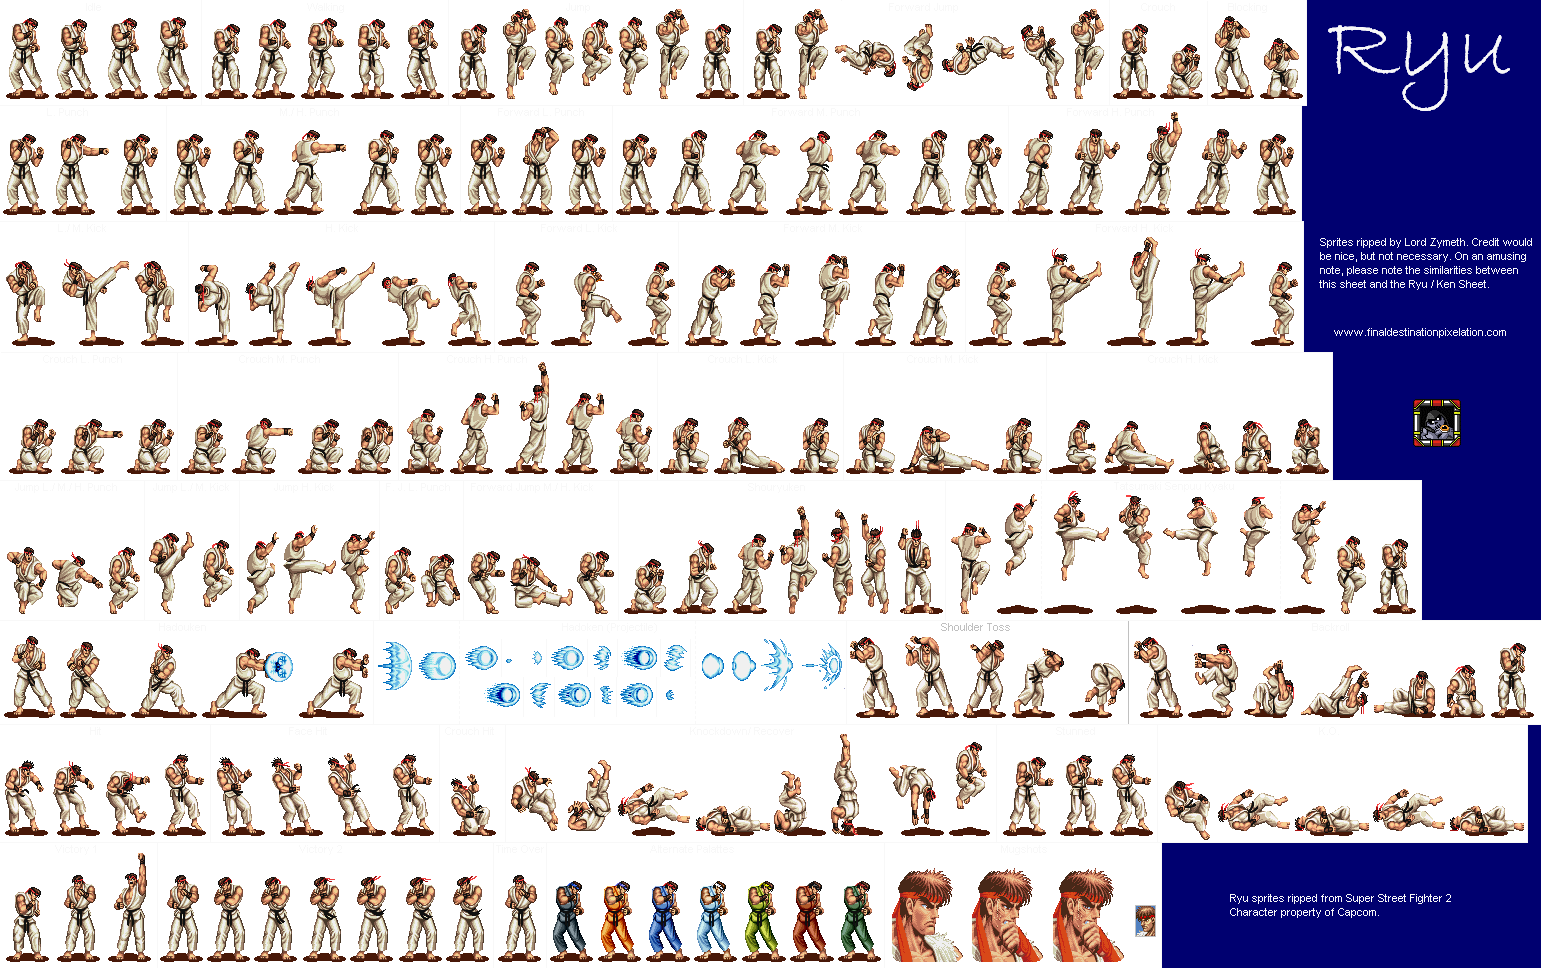
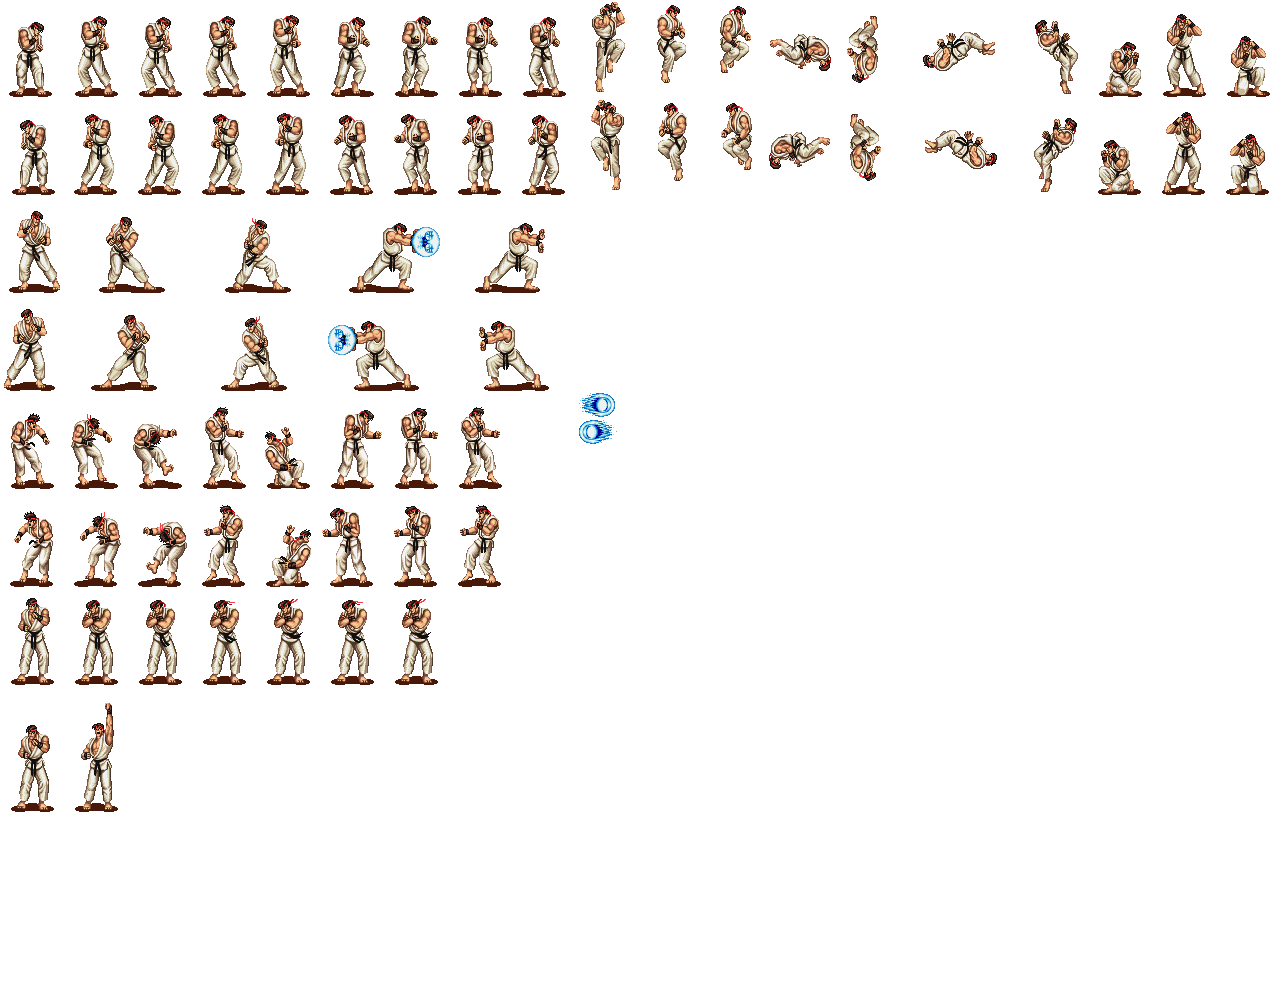
New gfx for Ryu

diff --git a/js/sprites.js b/js/sprites.js
@@ -120,32 +120,31 @@ FvB.Sprites = (function () {
         { sprite: "SPR_HUGE_EXPLOSION_11", sheet: "EXPLODEY.PNG", xOffset: 440, yOffset: 0, width: 40, height: 40, hitBox: null },
         { sprite: "SPR_HUGE_EXPLOSION_12", sheet: "EXPLODEY.PNG", xOffset: 480, yOffset: 0, width: 40, height: 40, hitBox: null },
         // Ryu Idle
-        { sprite: "SPR_RYU_IDLE_1", sheet: "RYU.PNG", xOffset: 5, yOffset: 17, width: 46, height: 82, hitBox: { x1: -5, x2: 5, y1: -64, y2: 0 } },
-        { sprite: "SPR_RYU_IDLE_2", sheet: "RYU.PNG", xOffset: 54, yOffset: 17, width: 46, height: 82, hitBox: { x1: -5, x2: 5, y1: -64, y2: 0 } },
-        { sprite: "SPR_RYU_IDLE_3", sheet: "RYU.PNG", xOffset: 104, yOffset: 17, width: 46, height: 82, hitBox: { x1: -5, x2: 5, y1: -64, y2: 0 } },
-        { sprite: "SPR_RYU_IDLE_4", sheet: "RYU.PNG", xOffset: 153, yOffset: 17, width: 46, height: 82, hitBox: { x1: -5, x2: 5, y1: -64, y2: 0 } },
+        { sprite: "SPR_RYU_IDLE_1", sheet: "RYU.PNG", xOffset: 64, yOffset: 0, width: 64, height: 98, hitBox: { x1: -5, x2: 5, y1: -64, y2: 0 } },
+        { sprite: "SPR_RYU_IDLE_2", sheet: "RYU.PNG", xOffset: 128, yOffset: 0, width: 64, height: 98, hitBox: { x1: -5, x2: 5, y1: -64, y2: 0 } },
+        { sprite: "SPR_RYU_IDLE_3", sheet: "RYU.PNG", xOffset: 192, yOffset: 0, width: 64, height: 98, hitBox: { x1: -5, x2: 5, y1: -64, y2: 0 } },
+        { sprite: "SPR_RYU_IDLE_4", sheet: "RYU.PNG", xOffset: 256, yOffset: 0, width: 64, height: 98, hitBox: { x1: -5, x2: 5, y1: -64, y2: 0 } },
         // Ryu Walk
-        { sprite: "SPR_RYU_WALK_1", sheet: "RYU.PNG", xOffset: 204, yOffset: 17, width: 46, height: 82, hitBox: null },
-        { sprite: "SPR_RYU_WALK_2", sheet: "RYU.PNG", xOffset: 251, yOffset: 17, width: 46, height: 82, hitBox: null },
-        { sprite: "SPR_RYU_WALK_3", sheet: "RYU.PNG", xOffset: 300, yOffset: 17, width: 46, height: 82, hitBox: null },
-        { sprite: "SPR_RYU_WALK_4", sheet: "RYU.PNG", xOffset: 350, yOffset: 17, width: 46, height: 82, hitBox: null },
-        { sprite: "SPR_RYU_WALK_5", sheet: "RYU.PNG", xOffset: 400, yOffset: 17, width: 46, height: 82, hitBox: null },
+        { sprite: "SPR_RYU_WALK_1", sheet: "RYU.PNG", xOffset: 320, yOffset: 0, width: 64, height: 98, hitBox: null },
+        { sprite: "SPR_RYU_WALK_2", sheet: "RYU.PNG", xOffset: 384, yOffset: 0, width: 64, height: 98, hitBox: null },
+        { sprite: "SPR_RYU_WALK_3", sheet: "RYU.PNG", xOffset: 448, yOffset: 0, width: 64, height: 98, hitBox: null },
+        { sprite: "SPR_RYU_WALK_4", sheet: "RYU.PNG", xOffset: 512, yOffset: 0, width: 64, height: 98, hitBox: null },
         // Ryu Crouch
-        { sprite: "SPR_RYU_CROUCH_1", sheet: "RYU.PNG", xOffset: 1159, yOffset: 17, width: 46, height: 82, hitBox: null },
+        { sprite: "SPR_RYU_CROUCH_1", sheet: "RYU.PNG", xOffset: 1088, yOffset: 0, width: 64, height: 98, hitBox: null },
         // Ryu Jump
-        { sprite: "SPR_RYU_JUMP_1", sheet: "RYU.PNG", xOffset: 537, yOffset: 17, width: 44, height: 82, hitBox: null },
-        { sprite: "SPR_RYU_JUMP_2", sheet: "RYU.PNG", xOffset: 575, yOffset: 17, width: 44, height: 82, hitBox: null },
+        { sprite: "SPR_RYU_JUMP_1", sheet: "RYU.PNG", xOffset: 640, yOffset: 0, width: 64, height: 98, hitBox: null },
+        { sprite: "SPR_RYU_JUMP_2", sheet: "RYU.PNG", xOffset: 704, yOffset: 0, width: 64, height: 98, hitBox: null },
         // Ryu Hadouken
-        { sprite: "SPR_RYU_HADOUKEN_1", sheet: "RYU.PNG", xOffset: 4, yOffset: 636, width: 52, height: 85, hitBox: null },
-        { sprite: "SPR_RYU_HADOUKEN_2", sheet: "RYU.PNG", xOffset: 60, yOffset: 636, width: 66, height: 85, hitBox: null },
-        { sprite: "SPR_RYU_HADOUKEN_3", sheet: "RYU.PNG", xOffset: 131, yOffset: 636, width: 68, height: 85, hitBox: null },
-        { sprite: "SPR_RYU_HADOUKEN_4", sheet: "RYU.PNG", xOffset: 202, yOffset: 636, width: 96, height: 85, hitBox: null },
-        { sprite: "SPR_RYU_HADOUKEN_5", sheet: "RYU.PNG", xOffset: 299, yOffset: 636, width: 72, height: 85, hitBox: null },
+        { sprite: "SPR_RYU_HADOUKEN_1", sheet: "RYU.PNG", xOffset: 0, yOffset: 196, width: 62, height: 98, hitBox: null },
+        { sprite: "SPR_RYU_HADOUKEN_2", sheet: "RYU.PNG", xOffset: 75, yOffset: 196, width: 94, height: 98, hitBox: null },
+        { sprite: "SPR_RYU_HADOUKEN_3", sheet: "RYU.PNG", xOffset: 201, yOffset: 196, width: 94, height: 98, hitBox: null },
+        { sprite: "SPR_RYU_HADOUKEN_4", sheet: "RYU.PNG", xOffset: 310, yOffset: 196, width: 124, height: 98, hitBox: null },
+        { sprite: "SPR_RYU_HADOUKEN_5", sheet: "RYU.PNG", xOffset: 451, yOffset: 196, width: 94, height: 98, hitBox: null },
         // Ryu Damaged
-        { sprite: "SPR_RYU_DAMAGED_1", sheet: "RYU.PNG", xOffset: 4, yOffset: 754, width: 46, height: 82, hitBox: null },
-        { sprite: "SPR_RYU_DAMAGED_2", sheet: "RYU.PNG", xOffset: 54, yOffset: 754, width: 50, height: 82, hitBox: null },
-        { sprite: "SPR_RYU_DAMAGED_3", sheet: "RYU.PNG", xOffset: 107, yOffset: 754, width: 54, height: 82, hitBox: null },
-        { sprite: "SPR_RYU_DAMAGED_4", sheet: "RYU.PNG", xOffset: 162, yOffset: 754, width: 46, height: 82, hitBox: null },
+        { sprite: "SPR_RYU_DAMAGED_1", sheet: "RYU.PNG", xOffset: 0, yOffset: 392, width: 64, height: 98, hitBox: null },
+        { sprite: "SPR_RYU_DAMAGED_2", sheet: "RYU.PNG", xOffset: 64, yOffset: 392, width: 64, height: 98, hitBox: null },
+        { sprite: "SPR_RYU_DAMAGED_3", sheet: "RYU.PNG", xOffset: 128, yOffset: 392, width: 64, height: 98, hitBox: null },
+        { sprite: "SPR_RYU_DAMAGED_4", sheet: "RYU.PNG", xOffset: 192, yOffset: 392, width: 64, height: 98, hitBox: null },
         // Hadouken Projectile
         { sprite: "SPR_HADOUKEN_1", sheet: "RYU.PNG", xOffset: 131, yOffset: 636, width: 68, height: 85, hitBox: null },
         { sprite: "SPR_HADOUKEN_2", sheet: "RYU.PNG", xOffset: 202, yOffset: 636, width: 96, height: 85, hitBox: null },

diff --git a/js/actstate.js b/js/actstate.js
@@ -107,8 +107,8 @@
            [FvB.st_Walk1, 1, FvB.SPR_RYU_WALK_1, 7, FvB.Player.T_Walk, null, FvB.st_Walk2],
         [FvB.st_Walk2, 1, FvB.SPR_RYU_WALK_2, 7, FvB.Player.T_Walk, null, FvB.st_Walk3],
          [FvB.st_Walk3, 1, FvB.SPR_RYU_WALK_3, 7, FvB.Player.T_Walk, null, FvB.st_Walk4],
-         [FvB.st_Walk4, 1, FvB.SPR_RYU_WALK_4, 7, FvB.Player.T_Walk, null, FvB.st_Walk5],
-          [FvB.st_Walk5, 1, FvB.SPR_RYU_WALK_5, 7, FvB.Player.T_Walk, null, FvB.st_Walk1],
+         [FvB.st_Walk4, 1, FvB.SPR_RYU_WALK_4, 7, FvB.Player.T_Walk, null, FvB.st_Walk1],
+         
 
           [FvB.st_Crouch, 1, FvB.SPR_RYU_CROUCH_1, 0, FvB.Player.T_Crouch, null, FvB.st_Idle1],
 
@@ -117,11 +117,11 @@
           [FvB.st_JumpDown, 1, FvB.SPR_RYU_JUMP_2, 5, FvB.Player.T_Jump, null, FvB.st_JumpEnd],
           [FvB.st_JumpEnd, 1, FvB.SPR_RYU_JUMP_1, 0, FvB.Player.T_Jump, null, FvB.st_Idle1],
 
-            [FvB.st_Hadouken1, 1, FvB.SPR_RYU_HADOUKEN_1, 7, null, null, FvB.st_Hadouken2],
-        [FvB.st_Hadouken2, 1, FvB.SPR_RYU_HADOUKEN_2, 7, null, null, FvB.st_Hadouken3],
-         [FvB.st_Hadouken3, 1, FvB.SPR_RYU_HADOUKEN_3, 7, null, null, FvB.st_Hadouken4],
-         [FvB.st_Hadouken4, 1, FvB.SPR_RYU_HADOUKEN_4, 7, null, /*FvB.Entities.A_SpawnHadouken*/, FvB.st_Hadouken5],
-          [FvB.st_Hadouken5, 1, FvB.SPR_RYU_HADOUKEN_5, 7, null, null, FvB.st_Idle1],
+            [FvB.st_Hadouken1, 1, FvB.SPR_RYU_HADOUKEN_1, 77, null, null, FvB.st_Hadouken2],
+        [FvB.st_Hadouken2, 1, FvB.SPR_RYU_HADOUKEN_2, 77, null, null, FvB.st_Hadouken3],
+         [FvB.st_Hadouken3, 1, FvB.SPR_RYU_HADOUKEN_3, 77, null, null, FvB.st_Hadouken4],
+         [FvB.st_Hadouken4, 1, FvB.SPR_RYU_HADOUKEN_4, 77, null, /*FvB.Entities.A_SpawnHadouken*/, FvB.st_Hadouken5],
+          [FvB.st_Hadouken5, 1, FvB.SPR_RYU_HADOUKEN_5, 77, null, null, FvB.st_Idle1],
 
            [FvB.st_Damaged1, 1, FvB.SPR_RYU_DAMAGED_1, 7, null, null, FvB.st_Damaged2],
            [FvB.st_Damaged2, 1, FvB.SPR_RYU_DAMAGED_2, 7, null, null, FvB.st_Damaged3],
